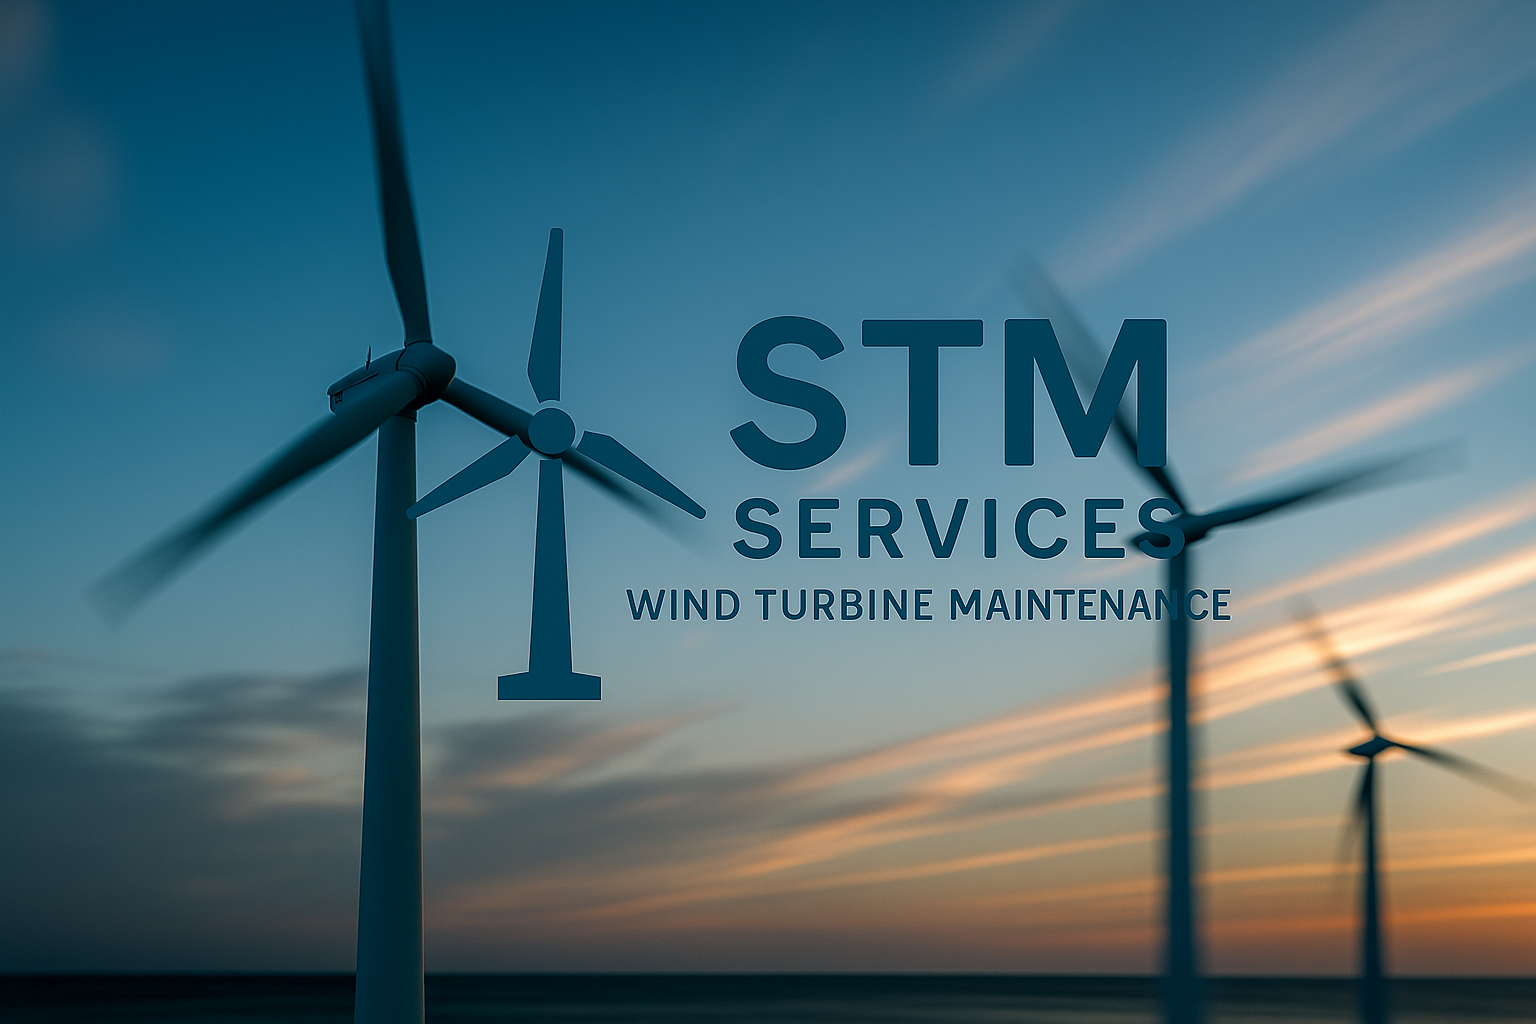
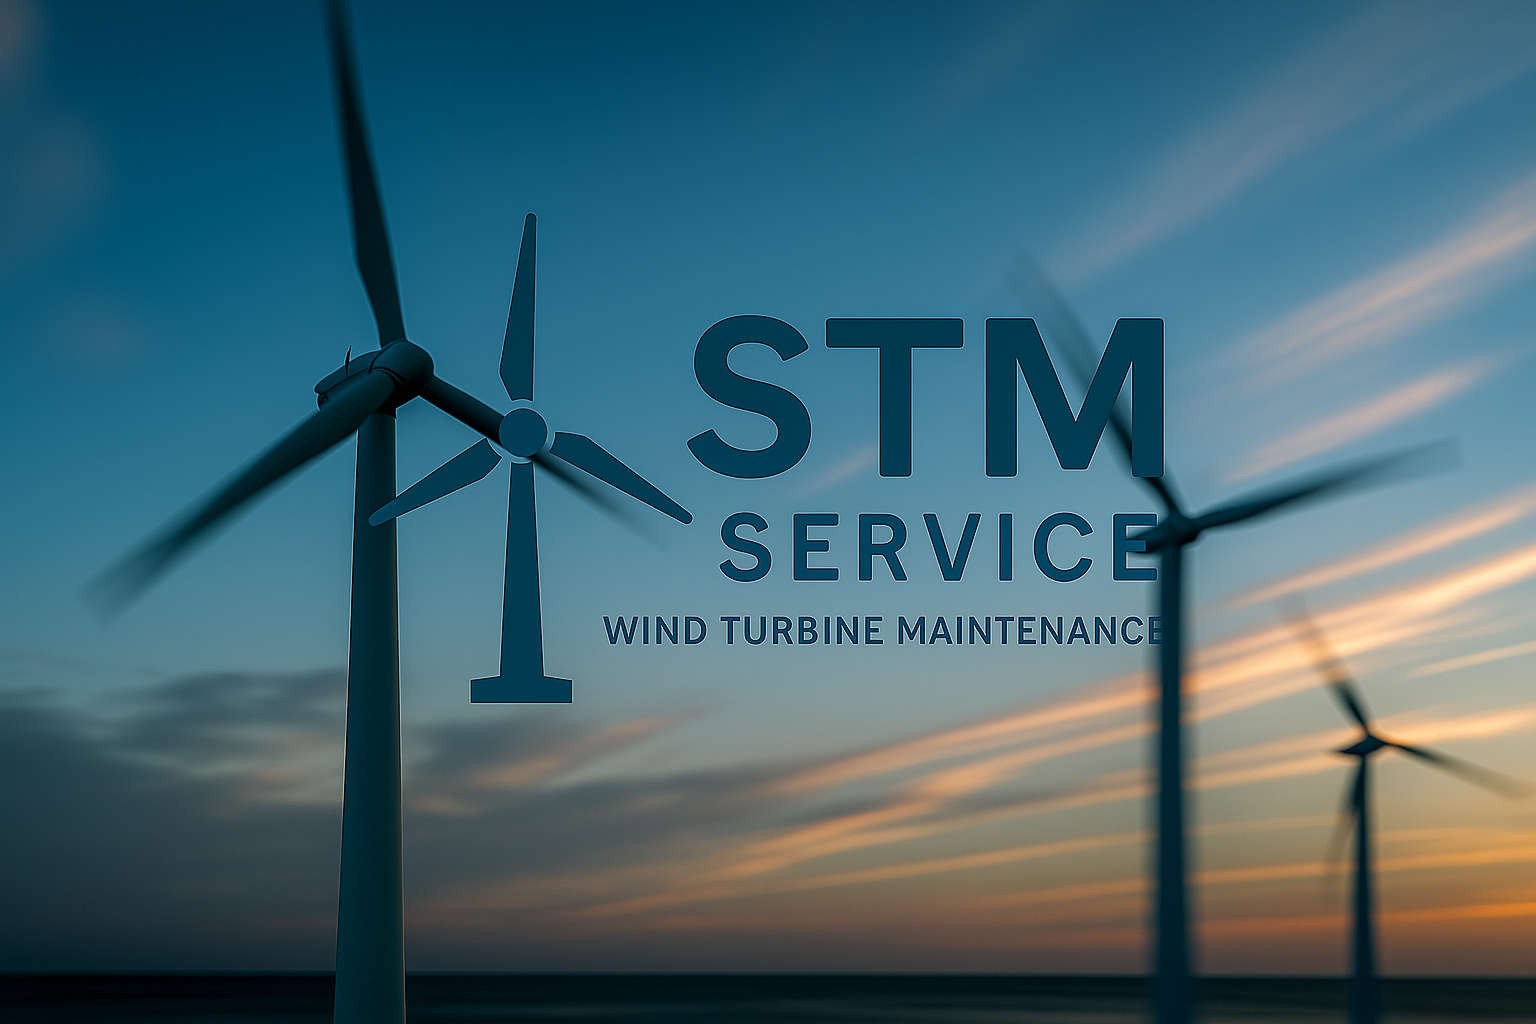
removing s from services

diff --git a/src/app/page.tsx b/src/app/page.tsx
@@ -70,7 +70,7 @@ export default function Home() {
               <div className="relative">
                 <Image
                   src="/logo2.png"
-                  alt="STM Services Logo"
+                  alt="STM Service Logo"
                   width={55}
                   height={55}
                   className="rounded-2xl shadow-xl ring-4 ring-white/20 hover:ring-blue-300/50 transition-all duration-300"
@@ -78,7 +78,7 @@ export default function Home() {
                 <div className="absolute -inset-1 bg-gradient-to-r from-blue-400 to-indigo-500 rounded-2xl blur opacity-25 group-hover:opacity-75 transition duration-300"></div>
               </div>
               <div>
-                <h1 className="text-2xl font-bold bg-gradient-to-r from-blue-800 to-indigo-900 bg-clip-text text-transparent">STM Services</h1>
+                <h1 className="text-2xl font-bold bg-gradient-to-r from-blue-800 to-indigo-900 bg-clip-text text-transparent">STM Service</h1>
                 <p className="text-sm bg-gradient-to-r from-blue-600 to-indigo-600 bg-clip-text text-transparent font-medium">Wind Turbine Maintenance </p>
               </div>
             </div>
@@ -111,9 +111,9 @@ export default function Home() {
                 </div>
               </button>
 
-              {/* Services Button */}
+              {/* Service Button */}
               <button 
-                onClick={() => scrollToSection('services')} 
+                onClick={() => scrollToSection('service')} 
                 className="group relative px-5 py-3 rounded-xl text-gray-700 hover:text-white transition-all duration-500 font-semibold overflow-hidden"
               >
                 <div className="absolute inset-0 bg-gradient-to-r from-purple-500 to-pink-600 transform scale-x-0 group-hover:scale-x-100 transition-transform duration-500 origin-left rounded-xl"></div>
@@ -121,7 +121,7 @@ export default function Home() {
                   <svg className="w-4 h-4 transform group-hover:rotate-12 transition-transform duration-300" fill="currentColor" viewBox="0 0 20 20">
                     <path fillRule="evenodd" d="M11.49 3.17c-.38-1.56-2.6-1.56-2.98 0a1.532 1.532 0 01-2.286.948c-1.372-.836-2.942.734-2.106 2.106.54.886.061 2.042-.947 2.287-1.561.379-1.561 2.6 0 2.978a1.532 1.532 0 01.947 2.287c-.836 1.372.734 2.942 2.106 2.106a1.532 1.532 0 012.287.947c.379 1.561 2.6 1.561 2.978 0a1.533 1.533 0 012.287-.947c1.372.836 2.942-.734 2.106-2.106a1.533 1.533 0 01.947-2.287c1.561-.379 1.561-2.6 0-2.978a1.532 1.532 0 01-.947-2.287c.836-1.372-.734-2.942-2.106-2.106a1.532 1.532 0 01-2.287-.947zM10 13a3 3 0 100-6 3 3 0 000 6z" clipRule="evenodd"/>
                   </svg>
-                  <span>{t('nav.services')}</span>
+                  <span>{t('nav.service')}</span>
                 </div>
               </button>
 
@@ -326,7 +326,7 @@ export default function Home() {
             <div className="relative mb-8 lg:hidden flex justify-center">
               <Image
                 src="/logo2.png"
-                alt="STM Services Logo"
+                alt="STM Service Logo"
                 width={120}
                 height={120}
                 className="rounded-3xl shadow-2xl ring-8 ring-white/20 hover:ring-blue-300/30 transition-all duration-500"
@@ -336,7 +336,7 @@ export default function Home() {
             <div className="hidden lg:block relative mb-8">
               <Image
                 src="/logo2.png"
-                alt="STM Services Logo"
+                alt="STM Service Logo"
                 width={100}
                 height={100}
                 className="rounded-2xl shadow-xl ring-4 ring-white/20 hover:ring-blue-300/30 transition-all duration-500"
@@ -357,10 +357,10 @@ export default function Home() {
             
             <div className="flex flex-col sm:flex-row gap-4 lg:justify-start justify-center">
               <button 
-                onClick={() => scrollToSection('services')}
+                onClick={() => scrollToSection('service')}
                 className="group relative bg-gradient-to-r from-blue-600 to-indigo-600 text-white px-8 py-4 rounded-2xl font-semibold text-lg hover:from-blue-700 hover:to-indigo-700 transform hover:scale-105 transition-all duration-300 shadow-2xl hover:shadow-blue-600/25"
               >
-                <span className="relative z-10">{t('hero.ourServices')}</span>
+                <span className="relative z-10">{t('hero.ourService')}</span>
                 <div className="absolute inset-0 bg-gradient-to-r from-blue-400 to-indigo-400 rounded-2xl blur opacity-0 group-hover:opacity-30 transition-opacity duration-300"></div>
               </button>
               <button 
@@ -381,7 +381,7 @@ export default function Home() {
                 <div className="overflow-hidden rounded-2xl relative">
                   <Image
                     src="/hero.png"
-                    alt="STM Services - Professional Wind Turbine Maintenance"
+                    alt="STM Service - Professional Wind Turbine Maintenance"
                     width={800}
                     height={600}
                     className="w-full h-auto object-cover transform group-hover:scale-110 transition-all duration-1000"
@@ -434,7 +434,7 @@ export default function Home() {
             <div className="relative mb-12">
               <Image
                 src="/logo2.png"
-                alt="STM Services Logo"
+                alt="STM Service Logo"
                 width={140}
                 height={140}
                 className="mx-auto rounded-3xl shadow-2xl ring-8 ring-white/20 hover:ring-blue-300/30 transition-all duration-500"
@@ -443,7 +443,7 @@ export default function Home() {
             </div>
             
             <h1 className="text-6xl md:text-8xl font-bold bg-gradient-to-r from-blue-800 via-indigo-700 to-blue-900 bg-clip-text text-transparent mb-8 animate-slide-in-left leading-tight">
-              STM Services
+              STM Service
             </h1>
             
             <div className="relative mb-10">
@@ -454,15 +454,15 @@ export default function Home() {
             </div>
             
             <p className="text-xl text-gray-600 mb-14 max-w-3xl mx-auto animate-fade-in leading-relaxed font-light">
-              Professional wind turbine maintenance and repair services . 
+              Professional wind turbine maintenance and repair service . 
               Ensuring optimal performance and longevity of your renewable energy assets with cutting-edge technology and expert care.
             </p>
             <div className="flex flex-col sm:flex-row gap-6 justify-center animate-fade-in-up">
               <button 
-                onClick={() => scrollToSection('services')}
+                onClick={() => scrollToSection('service')}
                 className="group relative bg-gradient-to-r from-blue-600 to-indigo-600 text-white px-10 py-4 rounded-2xl font-semibold text-lg hover:from-blue-700 hover:to-indigo-700 transform hover:scale-105 transition-all duration-300 shadow-2xl hover:shadow-blue-500/25"
               >
-                <span className="relative z-10">Our Services</span>
+                <span className="relative z-10">Our Service</span>
                 <div className="absolute inset-0 bg-gradient-to-r from-blue-400 to-indigo-400 rounded-2xl blur opacity-0 group-hover:opacity-30 transition-opacity duration-300"></div>
               </button>
               <button 
@@ -478,7 +478,7 @@ export default function Home() {
         <div className="absolute bottom-8 left-1/2 transform -translate-x-1/2 animate-bounce">
           <ChevronDownIcon 
             className="w-8 h-8 text-blue-600 cursor-pointer hover:text-blue-800 transition-colors"
-            onClick={() => scrollToSection('services')}
+            onClick={() => scrollToSection('service')}
           />
         </div>
         
@@ -499,7 +499,7 @@ export default function Home() {
                 <div className="relative overflow-hidden rounded-3xl shadow-2xl ring-1 ring-white/10">
                   <Image
                     src="/about.png"
-                    alt="STM Services Technician performing wind turbine maintenance"
+                    alt="STM Service Technician performing wind turbine maintenance"
                     width={600}
                     height={400}
                     className="w-full h-auto object-cover transform group-hover:scale-105 transition-transform duration-700"
@@ -564,16 +564,16 @@ export default function Home() {
         </div>
       </section>
 
-      {/* Services Section */}
-      <section id="services" className="py-24 bg-gradient-to-br from-white via-gray-50 to-blue-50/30">
+      {/* Service Section */}
+      <section id="service" className="py-24 bg-gradient-to-br from-white via-gray-50 to-blue-50/30">
         <div className="max-w-7xl mx-auto px-4 sm:px-6 lg:px-8">
           <div className="text-center mb-20 animate-fade-in-up">
             <div className="inline-block mb-4">
-              <span className="bg-gradient-to-r from-blue-600 to-indigo-600 bg-clip-text text-transparent text-sm font-semibold tracking-wider uppercase">{t('services.ourExpertise')}</span>
+              <span className="bg-gradient-to-r from-blue-600 to-indigo-600 bg-clip-text text-transparent text-sm font-semibold tracking-wider uppercase">{t('service.ourExpertise')}</span>
             </div>
-            <h2 className="text-5xl md:text-6xl font-bold bg-gradient-to-r from-blue-800 to-indigo-900 bg-clip-text text-transparent mb-6">{t('services.title')}</h2>
+            <h2 className="text-5xl md:text-6xl font-bold bg-gradient-to-r from-blue-800 to-indigo-900 bg-clip-text text-transparent mb-6">{t('service.title')}</h2>
             <p className="text-xl text-gray-600 max-w-3xl mx-auto leading-relaxed">
-              {t('services.description')}
+              {t('service.description')}
             </p>
             <div className="mt-6 w-24 h-1 bg-gradient-to-r from-blue-400 to-indigo-500 rounded-full mx-auto"></div>
           </div>
@@ -581,33 +581,33 @@ export default function Home() {
           <div className="grid md:grid-cols-2 lg:grid-cols-3 gap-8">
             {[
               {
-                title: t('services.preventiveMaintenance.title'),
-                description: t('services.preventiveMaintenance.description'),
+                title: t('service.preventiveMaintenance.title'),
+                description: t('service.preventiveMaintenance.description'),
                 icon: "🔧"
               },
               {
-                title: t('services.emergencyRepairs.title'),
-                description: t('services.emergencyRepairs.description'),
+                title: t('service.emergencyRepairs.title'),
+                description: t('service.emergencyRepairs.description'),
                 icon: "⚡"
               },
               {
-                title: t('services.componentReplacement.title'),
-                description: t('services.componentReplacement.description'),
+                title: t('service.componentReplacement.title'),
+                description: t('service.componentReplacement.description'),
                 icon: "🔄"
               },
               {
-                title: t('services.performanceOptimization.title'),
-                description: t('services.performanceOptimization.description'),
+                title: t('service.performanceOptimization.title'),
+                description: t('service.performanceOptimization.description'),
                 icon: "📊"
               },
               {
-                title: t('services.safetyInspections.title'),
-                description: t('services.safetyInspections.description'),
+                title: t('service.safetyInspections.title'),
+                description: t('service.safetyInspections.description'),
                 icon: "🛡"
               },
               {
-                title: t('services.technicalConsultancy.title'),
-                description: t('services.technicalConsultancy.description'),
+                title: t('service.technicalConsultancy.title'),
+                description: t('service.technicalConsultancy.description'),
                 icon: "💡"
               }
             ].map((service, index) => (
@@ -770,7 +770,7 @@ export default function Home() {
                   <div className="overflow-hidden rounded-2xl">
                     <Image
                       src="/technicians.png"
-                      alt="STM Services team of technicians working together with safety equipment"
+                      alt="STM Service team of technicians working together with safety equipment"
                       width={700}
                       height={500}
                       className="w-full h-auto object-cover transform group-hover:scale-105 transition-transform duration-700"
@@ -1160,7 +1160,7 @@ export default function Home() {
                   </div>
                   <div>
                     <h3 className="text-xl font-semibold">{t('contact.email')}</h3>
-                    <p className="text-gray-600">info@stmservices.ma</p>
+                    <p className="text-gray-600">info@stmservice.ma</p>
                   </div>
                 </div>
                 
@@ -1231,13 +1231,13 @@ export default function Home() {
             <div className="flex items-center space-x-3 mb-4 md:mb-0">
               <Image
                 src="/logo2.png"
-                alt="STM Services Logo"
+                alt="STM Service Logo"
                 width={40}
                 height={40}
                 className="rounded-full"
               />
               <div>
-                <h3 className="text-xl font-bold">STM Services</h3>
+                <h3 className="text-xl font-bold">STM Service</h3>
                 <p className="text-blue-300 text-sm">{t('footer.subtitle')}</p>
               </div>
             </div>

diff --git a/src/app/layout.tsx b/src/app/layout.tsx
@@ -14,8 +14,8 @@ const geistMono = Geist_Mono({
 });
 
 export const metadata: Metadata = {
-  title: "STM Services - Wind Turbine Maintenance ",
-  description: "Professional wind turbine maintenance services in Tangier, Morocco. Expert technicians providing preventive maintenance, emergency repairs, and safety inspections for optimal wind energy performance.",
+  title: "STM Service - Wind Turbine Maintenance ",
+  description: "Professional wind turbine maintenance service in Tangier, Morocco. Expert technicians providing preventive maintenance, emergency repairs, and safety inspections for optimal wind energy performance.",
   icons: {
     icon: [
       { url: "/favicon.ico?v=2", sizes: "any" },
